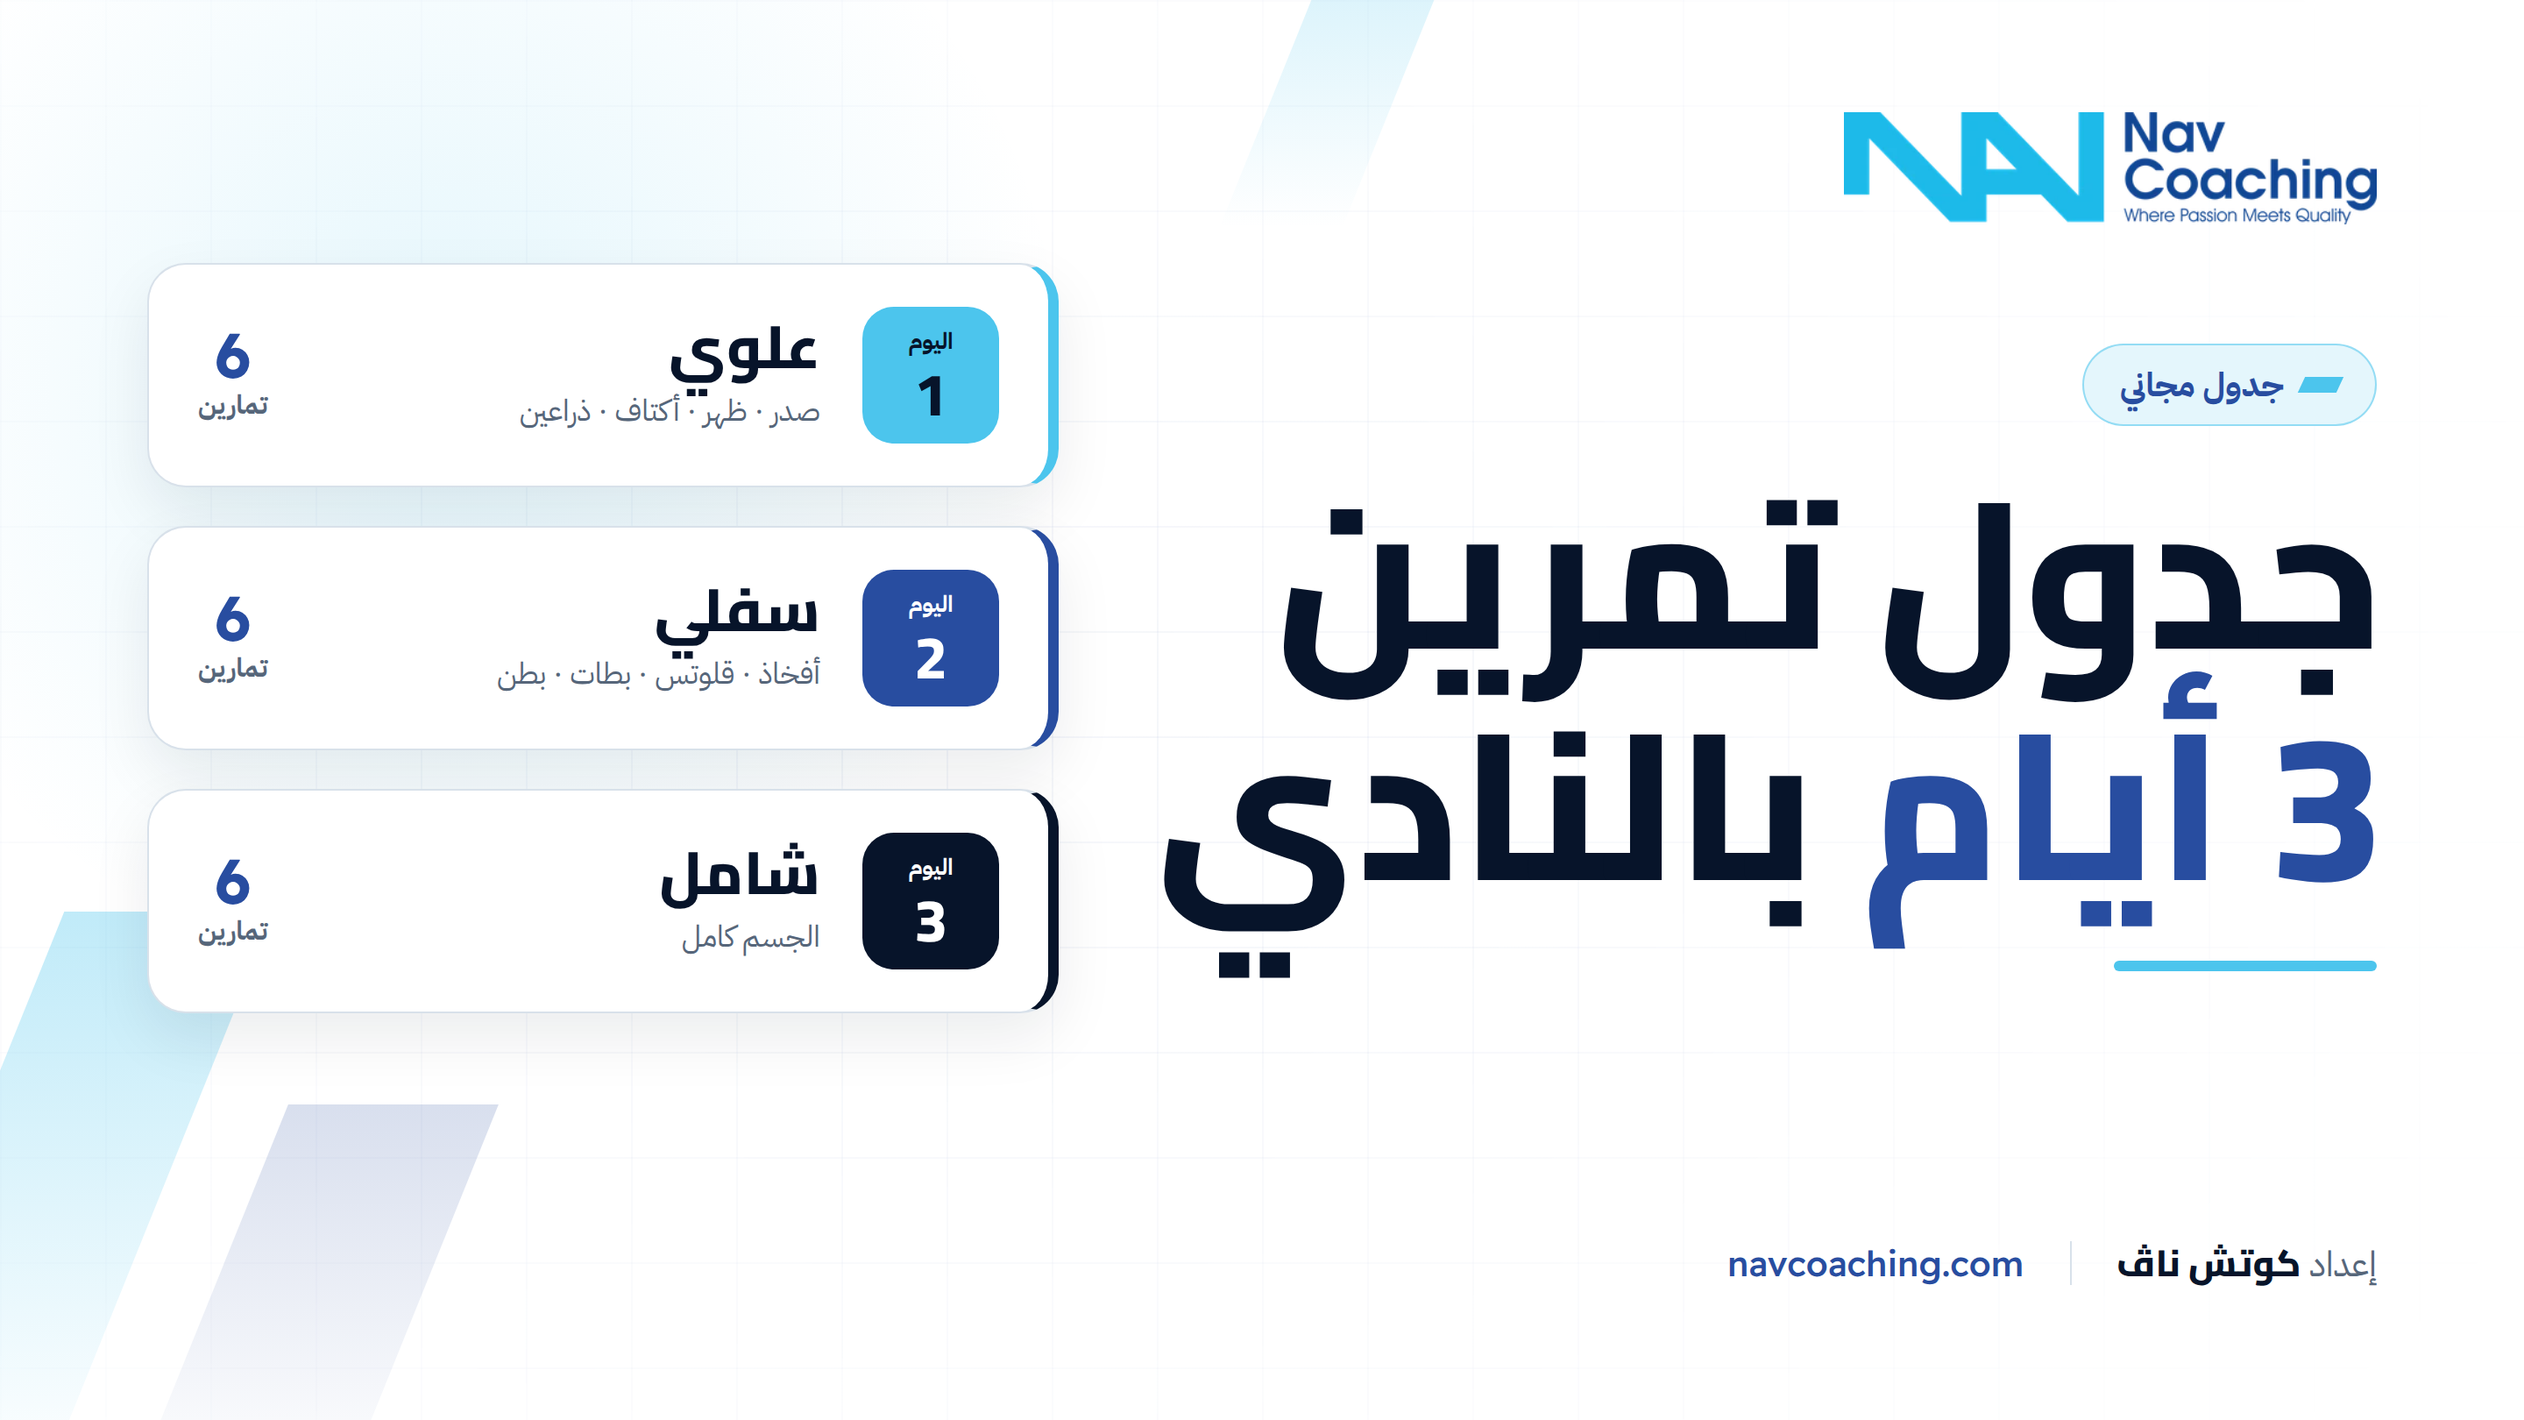
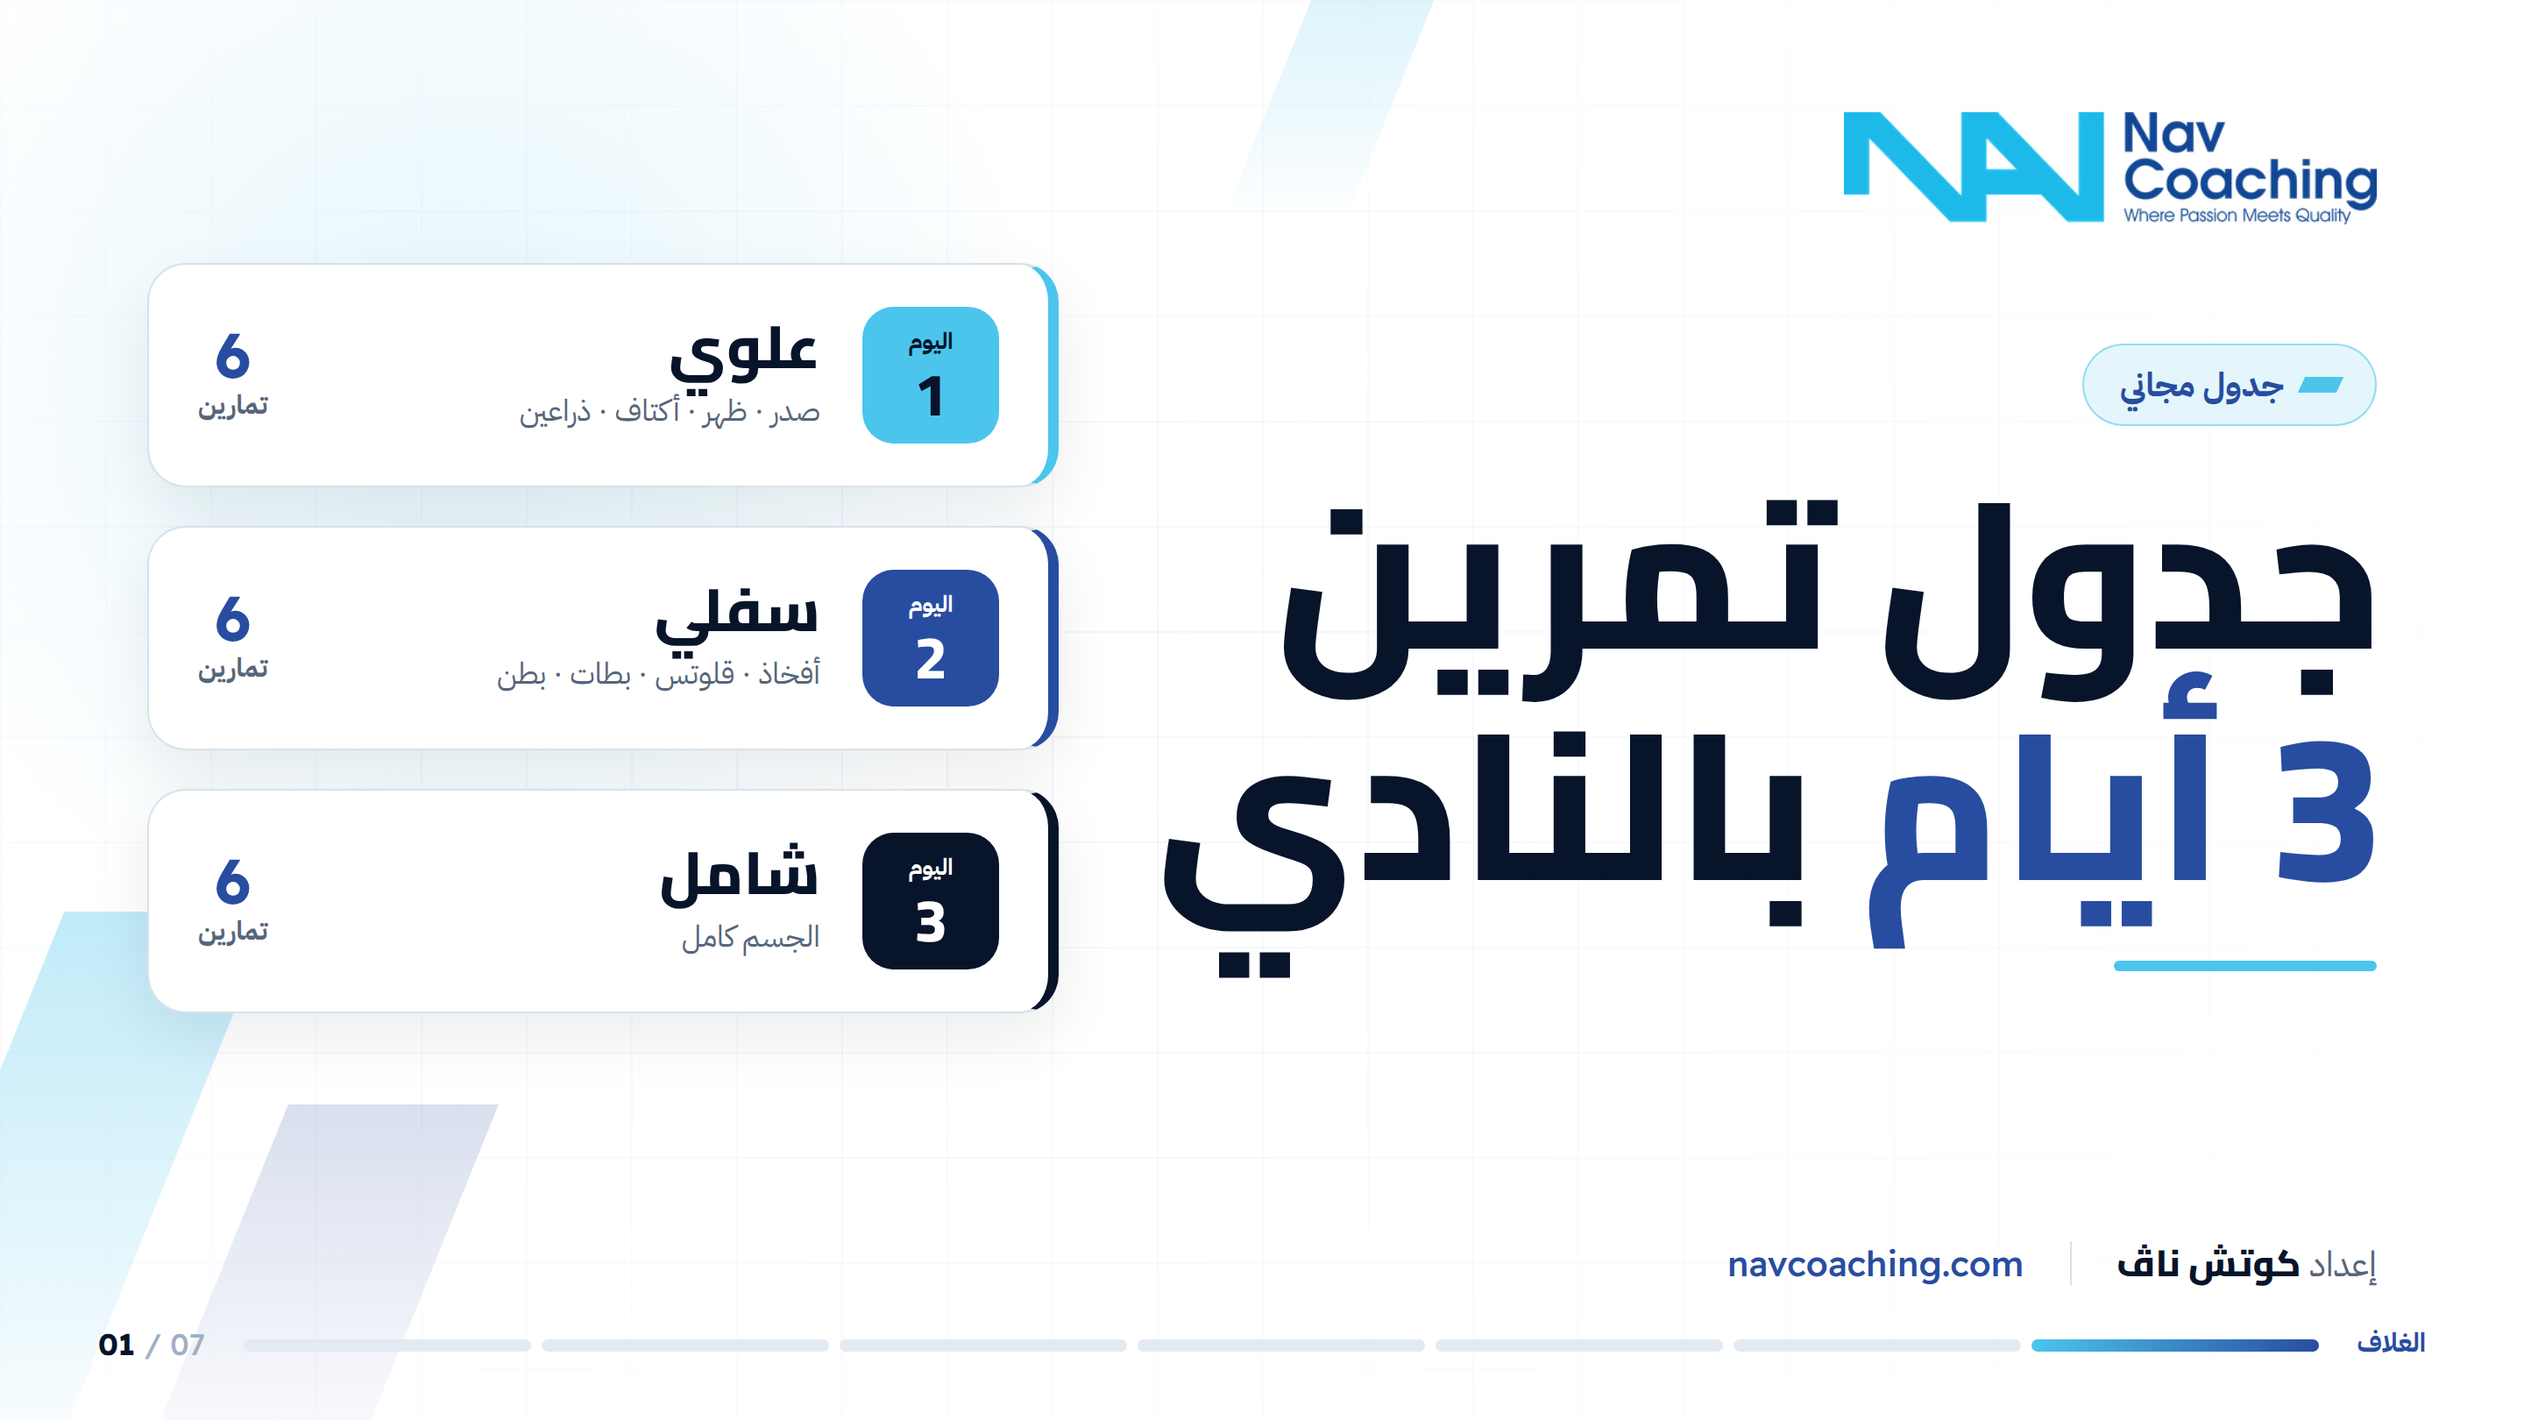
Program PDF: add page-progress bar and day-1 (upper) table with muscle diagrams
Claude-Session: https://claude.ai/code/session_018Z9fQ6WXKqVkgdznS9iWHe

Changed region(s): [[0.1562, 0.9259, 0.9688, 0.9568], [0.0312, 0.9259, 0.0938, 0.9568]]

diff --git a/pdf/program.html b/pdf/program.html
@@ -39,10 +39,58 @@ a{color:inherit;text-decoration:none}
 .day p{font:500 17px "IBM Plex Sans Arabic";color:var(--muted);margin-top:6px}
 .day .cnt{margin-right:auto;text-align:center;font:700 15px "IBM Plex Sans Arabic";color:var(--muted)}
 .day .cnt b{display:block;font:800 36px/1 "Readex Pro";color:var(--navy)}
+
+/* ---------- pager (progress bar) */
+.pager{position:absolute;left:56px;right:56px;bottom:26px;height:34px;display:flex;align-items:center;gap:22px;z-index:5}
+.pager .sec{font:700 15px "IBM Plex Sans Arabic";color:var(--muted);white-space:nowrap}
+.pager .sec b{color:var(--navy);font-weight:700}
+.pager .bar{flex:1;display:flex;gap:6px;direction:rtl}
+.pager .bar i{flex:1;height:7px;border-radius:9px;background:#e3eaf2}
+.pager .bar i.done{background:var(--navy)}
+.pager .bar i.cur{background:linear-gradient(270deg,var(--navy),var(--cyan))}
+.pager .num{font:700 17px "Readex Pro";color:var(--ink);direction:ltr;white-space:nowrap}
+.pager .num span{color:#9fb0c3;font-weight:500}
+.pager .url{font:500 14px "Readex Pro";color:var(--muted);direction:ltr}
+
+/* ---------- day pages */
+.dp .top{position:absolute;top:34px;right:56px;left:56px;height:96px;display:flex;align-items:center;gap:22px;z-index:2}
+.dp .badge{width:86px;height:86px;border-radius:20px;display:flex;flex-direction:column;align-items:center;justify-content:center;font:800 38px/1 Cairo;color:#fff;background:var(--navy)}
+.dp .badge small{font:700 14px "IBM Plex Sans Arabic";margin-bottom:5px}
+.dp .badge.a{background:var(--cyan);color:var(--ink)}.dp .badge.c{background:var(--ink)}
+.dp h2{font:800 60px/1 Cairo;color:var(--ink)}
+.dp .hint{display:flex;align-items:center;gap:10px;font:500 16px "IBM Plex Sans Arabic";color:var(--muted);background:var(--paper);border:1px solid var(--line);border-radius:99px;padding:9px 18px}
+.dp .hint .pl{width:24px;height:24px}
+.dp .logo{height:44px;margin-right:18px}
+
+.tbl{position:absolute;top:148px;right:56px;left:56px;border:1.5px solid var(--line);border-radius:20px;overflow:hidden;background:#fff;box-shadow:0 12px 34px #07142a0f;z-index:2}
+.tr{display:grid;grid-template-columns:50px 300px 244px 200px 88px 104px 1fr;align-items:center;direction:rtl}
+.th{background:var(--ink);color:#fff;height:50px;font:700 16px "IBM Plex Sans Arabic"}
+.th>div{text-align:center}.th>div.r{text-align:right;padding-right:16px}
+.td{height:88px;border-top:1px solid var(--line)}
+.td:nth-child(odd){background:#f8fafc}
+.td>div{height:100%;display:flex;align-items:center;justify-content:center}
+.td .idx{font:800 20px "Readex Pro";color:var(--navy)}
+.td .ex,.td .alt{justify-content:flex-start;padding:0 16px}
+.lnk{display:flex;align-items:center;gap:12px;direction:ltr;text-align:left}
+.lnk .pl{flex:none;width:34px;height:34px}
+.lnk b{font:700 17px/1.2 "Readex Pro";color:var(--ink);letter-spacing:.2px}
+.lnk:hover b{color:var(--navy)}
+.alt .lnk b{font-weight:500;color:#33445c;font-size:15px}
+.alt .lnk .pl{width:28px;height:28px}
+.tags{display:flex;flex-wrap:wrap;gap:6px;justify-content:center;padding:0 10px}
+.tag{font:700 14px "IBM Plex Sans Arabic";padding:4px 11px;border-radius:99px;background:var(--cyan-soft);border:1.5px solid var(--cyan);color:var(--cyan-ink);white-space:nowrap}
+.tag.p{background:var(--navy);border-color:var(--navy);color:#fff}
+.lg{display:flex;gap:16px;font:500 15px "IBM Plex Sans Arabic";color:var(--muted)}.lg span{display:flex;align-items:center;gap:7px}.lg i{width:14px;height:14px;border-radius:4px;background:var(--navy)}.lg i.s{background:var(--cyan)}
+.fig{gap:10px}.fig svg{height:80px;width:80px}
+.num{font:800 26px "Readex Pro";color:var(--ink)}
+.rep{font:700 20px "Readex Pro";color:var(--ink);direction:ltr;background:var(--cyan-soft);border-radius:10px;padding:6px 12px}
+.th .alt-h{text-align:right;padding-right:16px}
+.legend{position:absolute;bottom:78px;right:58px;display:flex;gap:18px;font:500 14px "IBM Plex Sans Arabic";color:var(--muted);z-index:2}
+.legend i{display:inline-block;width:12px;height:12px;border-radius:3px;margin-left:6px;vertical-align:-1px}
 </style></head><body>
 
 <!-- ================= PAGE 1 : COVER ================= -->
-<section class="page light grid cover">
+<section class="page light grid cover" data-sec="الغلاف">
  <i class="slash" style="left:-30px;bottom:-40px;width:120px;height:330px"></i>
  <i class="slash n" style="left:120px;bottom:-40px;width:120px;height:220px"></i>
  <i class="slash" style="right:640px;top:-40px;width:70px;height:170px;opacity:.25"></i>
@@ -59,4 +107,89 @@ a{color:inherit;text-decoration:none}
  </div>
 </section>
 
+<div id="dayPages"></div>
+
+
+<script>
+const TOTAL=7;
+const PLAY='<svg class="pl" viewBox="0 0 34 34"><circle cx="17" cy="17" r="16" fill="#e4f6fc" stroke="#4cc5ed" stroke-width="1.5"/><path d="M14 11.5v11l9-5.5z" fill="#284da0"/></svg>';
+const YT=id=>id.includes('/')?id:('https://www.youtube.com/'+(id.length&&id[0]==='w'?'watch?v='+id.slice(2):'shorts/'+id));
+// ---- body diagram
+const BASE='#d6e0eb',SIL='#eef3f8',STR='#c3cfdd',P='#284da0',S2='#4cc5ed';
+function mir(d){return d.replace(/(-?\d+(?:\.\d+)?),(-?\d+(?:\.\d+)?)/g,(m,x,y)=>(100-+x)+','+y)}
+function shape(tag,attrs){return '<'+tag+' '+Object.entries(attrs).map(([k,v])=>k+'="'+v+'"').join(' ')+'/>'}
+function both(kind,a,col){ // draws left + mirrored right
+  if(kind==='e'){const [cx,cy,rx,ry]=a;return shape('ellipse',{cx,cy,rx,ry,fill:col})+shape('ellipse',{cx:100-cx,cy,rx,ry,fill:col})}
+  return shape('path',{d:a,fill:col})+shape('path',{d:mir(a),fill:col})}
+function sil(){let o='';
+  o+=shape('circle',{cx:50,cy:15,r:10,fill:SIL,stroke:STR,'stroke-width':1.2});
+  o+=shape('rect',{x:45,y:23,width:10,height:9,fill:SIL});
+  const parts=['M30,33 Q50,28 70,33 L68,62 Q66,80 63,98 L37,98 Q34,80 32,62 Z','M37,96 L63,96 L65,112 L50,118 L35,112 Z'];
+  parts.forEach(d=>o+=shape('path',{d,fill:SIL,stroke:STR,'stroke-width':1.2}));
+  ['M24,35 Q15,38 14,52 L13,74 Q16,79 21,76 L26,52 Z','M13,76 L10,100 Q13,105 17,102 L21,78 Z','M35,110 Q32,140 36,160 L37,193 L46,193 L47,160 Q50,135 50,116 Z'].forEach(d=>{o+=shape('path',{d,fill:SIL,stroke:STR,'stroke-width':1.2})+shape('path',{d:mir(d),fill:SIL,stroke:STR,'stroke-width':1.2})});
+  return o}
+function body(view,pri,sec){const c=m=>pri.includes(m)?P:(sec.includes(m)?S2:BASE);let o=sil();
+  if(view==='f'){
+    o+=both('p','M37,37 Q49,35 49,39 L49,52 Q42,56 34,50 Q33,42 37,37Z',c('chest'));
+    o+=both('e',[29.5,40,4.8,6.5],c('fdelt'));o+=both('e',[23.5,42,3.8,7],c('sdelt'));
+    o+=both('e',[19,57,4.2,11],c('biceps'));
+    o+=shape('rect',{x:43,y:58,width:14,height:36,rx:5,fill:c('abs')});
+    o+=both('e',[42,136,7.5,23],c('quads'));o+=both('e',[41,172,4,14],BASE);
+  }else{
+    o+=shape('path',{d:'M50,30 L62,36 L57,52 L50,57 L43,52 L38,36Z',fill:c('rhomb')});
+    o+=both('p','M34,46 Q40,52 46,58 L46,80 Q40,77 36,70 Q32,58 34,46Z',c('lats'));
+    o+=both('e',[29.5,40,4.8,6.5],c('rdelt'));o+=both('e',[23.5,42,3.8,7],c('sdelt'));
+    o+=both('e',[19,57,4.2,11],c('triceps'));
+    o+=both('e',[43,106,8,9],c('glutes'));o+=both('e',[42,138,7,19],c('hams'));o+=both('e',[41,171,5.5,13],c('calves'));
+  }
+  const all=pri.concat(sec),LOW=['quads','glutes','hams','calves'];
+  const vb=all.every(m=>LOW.includes(m))?'4 94 92 104':(all.length===1&&all[0]==='abs')?'4 26 92 92':'4 2 92 104';
+  return '<svg viewBox="'+vb+'" preserveAspectRatio="xMidYMid meet">'+o+'</svg>'}
+// ---- data (content kept from the original file)
+const DAYS=[
+ {n:1,cls:'a',title:'علوي',rows:[
+  ['INCLINE DB PRESS','Gruq177Psnk',['صدر علوي','أكتاف أمامية','تراي'],['chest'],['fdelt','triceps'],3,'6-12','MACHINE INCLINE CHEST PRESS','w:tiWPSwt8_zM'],
+  ['FLAT DB PRESS','1V3vpcaxRYQ',['صدر','أكتاف أمامية','تراي'],['chest'],['fdelt','triceps'],3,'6-12','MACHINE CHEST PRESS','relql3kwCi8'],
+  ['LATS PULLDOWN','w:hnSqbBk15tw',['لاتس','باي'],['lats'],['biceps'],3,'6-12','PULL UP','WLzut1ZxxTY'],
+  ['SEATED ROW','w:YKAeU55CkVk',['لاتس','رومبويد','باي','كتف خلفي'],['lats','rhomb'],['biceps','rdelt'],3,'6-12','ONE ARM ROW','KaCcBqhiXtc'],
+  ['DB LATERAL RAISE','JIhbYYA1Q90',['كتف جانبي'],['sdelt'],[],3,'6-12','MACHINE LATERAL RAISE','AydmHFgOn6U'],
+  ['DB CURL','YgHnvJQkfhc',['باي'],['biceps'],[],3,'6-12','ZIG ZAG BAR CURL','JMT4HmbJadQ']]},
+ {n:2,cls:'b',title:'سفلي',rows:[
+  ['SQUAT','PPmvh7gBTi0',['أفخاذ أمامية','قلوتس'],['quads'],['glutes'],4,'6-12','LEG PRESS','nDh_BlnLCGc'],
+  ['BARBELL RDL','5rIqP63yWFg',['أفخاذ خلفية','قلوتس'],['hams'],['glutes'],3,'6-12','DB RDL','u14AwrUcwWw'],
+  ['LYING LEG CURL','ANKSmhT0dTk',['أفخاذ خلفية'],['hams'],[],3,'6-12','STANDING CABLE LEG CURL','bkwW1flKchc'],
+  ['STANDING CALF RAISES','95itLfMBG40',['بطات'],['calves'],[],3,'6-12','LEG PRESS CALF RAISES','1cvpm--Y-4I'],
+  ['CABLE CRUNCHES','dkGwcfo9zto',['بطن'],['abs'],[],3,'6-12','CRUNCHES','eeJ_CYqSoT4'],
+  ['HANGING LEG RAISES','2n4UqRIJyk4',['بطن'],['abs'],[],3,'6-12','SUPPORTED LEG RAISES','PpZxg66ftYc']]},
+ {n:3,cls:'c',title:'شامل',rows:[
+  ['LEG PRESS','nDh_BlnLCGc',['أفخاذ أمامية','قلوتس'],['quads'],['glutes'],4,'6-12','SQUAT','PPmvh7gBTi0'],
+  ['HIP THRUST','PqOnYf6Slkg',['قلوتس','أفخاذ خلفية'],['glutes'],['hams'],3,'6-12','MACHINE HIP THRUST','6jVU_KaQOfw'],
+  ['SEATED ROW','w:YKAeU55CkVk',['لاتس','رومبويد','باي','كتف خلفي'],['lats','rhomb'],['biceps','rdelt'],3,'6-12','PULL UP','WLzut1ZxxTY'],
+  ['LATS PULLDOWN','w:hnSqbBk15tw',['لاتس','باي'],['lats'],['biceps'],3,'6-12','ONE ARM ROW','KaCcBqhiXtc'],
+  ['FLAT DB PRESS','1V3vpcaxRYQ',['صدر','أكتاف أمامية','تراي'],['chest'],['fdelt','triceps'],3,'6-12','MACHINE CHEST PRESS','relql3kwCi8'],
+  ['TRICEPS PUSHDOWN','Rc7-euA8FDI',['تراي'],['triceps'],[],3,'6-12','OVERHEAD TRICEPS EXTENSION','7hx0-DZgdl8']]}
+];
+const url=id=>id.startsWith('w:')?'https://www.youtube.com/watch?v='+id.slice(2):'https://www.youtube.com/shorts/'+id;
+const lnk=(name,id)=>'<a class="lnk" href="'+url(id)+'" target="_blank">'+PLAY+'<b>'+name+'</b></a>';
+let html='';
+DAYS.forEach(d=>{
+  html+='<section class="page light grid dp" data-sec="اليوم '+d.n+' · '+d.title+'">'
+   +'<i class="slash" style="left:-40px;bottom:-40px;width:90px;height:190px;opacity:.25"></i>'
+   +'<div class="top"><div class="badge '+d.cls+'"><small>اليوم</small>'+d.n+'</div><h2>'+d.title+'</h2>'
+   +'<div class="lg" style="margin-right:auto"><span><i></i>عضلة أساسية</span><span><i class="s"></i>عضلة مساعدة</span></div><div class="hint" style="margin-right:22px">'+PLAY.replace('class="pl"','class="pl" style="width:24px;height:24px"')+'اضغط على اسم التمرين لمشاهدة الشرح</div>'
+   +'<img class="logo" src="../brand/logo-color.webp" alt="Nav Coaching"></div>'
+   +'<div class="tbl"><div class="tr th"><div>#</div><div class="r">اسم التمرين</div><div>اسم العضلة</div><div>العضلات المستهدفة</div><div>الجولات</div><div>العدات</div><div class="alt-h">بديل التمرين</div></div>';
+  d.rows.forEach((r,i)=>{const [name,id,mus,pri,sec,sets,reps,alt,altId]=r;
+    html+='<div class="tr td"><div class="idx">'+(i+1)+'</div><div class="ex">'+lnk(name,id)+'</div>'
+     +'<div class="tags">'+mus.map((m,k)=>'<span class="tag'+(k===0?' p':'')+'">'+m+'</span>').join('')+'</div>'
+     +'<div class="fig">'+body('f',pri,sec)+body('b',pri,sec)+'</div>'
+     +'<div class="num">'+sets+'</div><div><span class="rep">'+reps+'</span></div><div class="alt">'+lnk(alt,altId)+'</div></div>';});
+  html+='</div></section>';
+});
+document.getElementById('dayPages').outerHTML=html;
+// ---- pager on every page
+document.querySelectorAll('.page').forEach((pg,i)=>{const n=i+1;
+  let bar='';for(let k=1;k<=TOTAL;k++)bar+='<i class="'+(k<n?'done':k===n?'cur':'')+'"></i>';
+  pg.insertAdjacentHTML('beforeend','<footer class="pager"><span class="sec"><b>'+(pg.dataset.sec||'')+'</b></span><div class="bar">'+bar+'</div><span class="num">'+String(n).padStart(2,'0')+' <span>/ '+String(TOTAL).padStart(2,'0')+'</span></span></footer>');});
+</script>
 </body></html>
